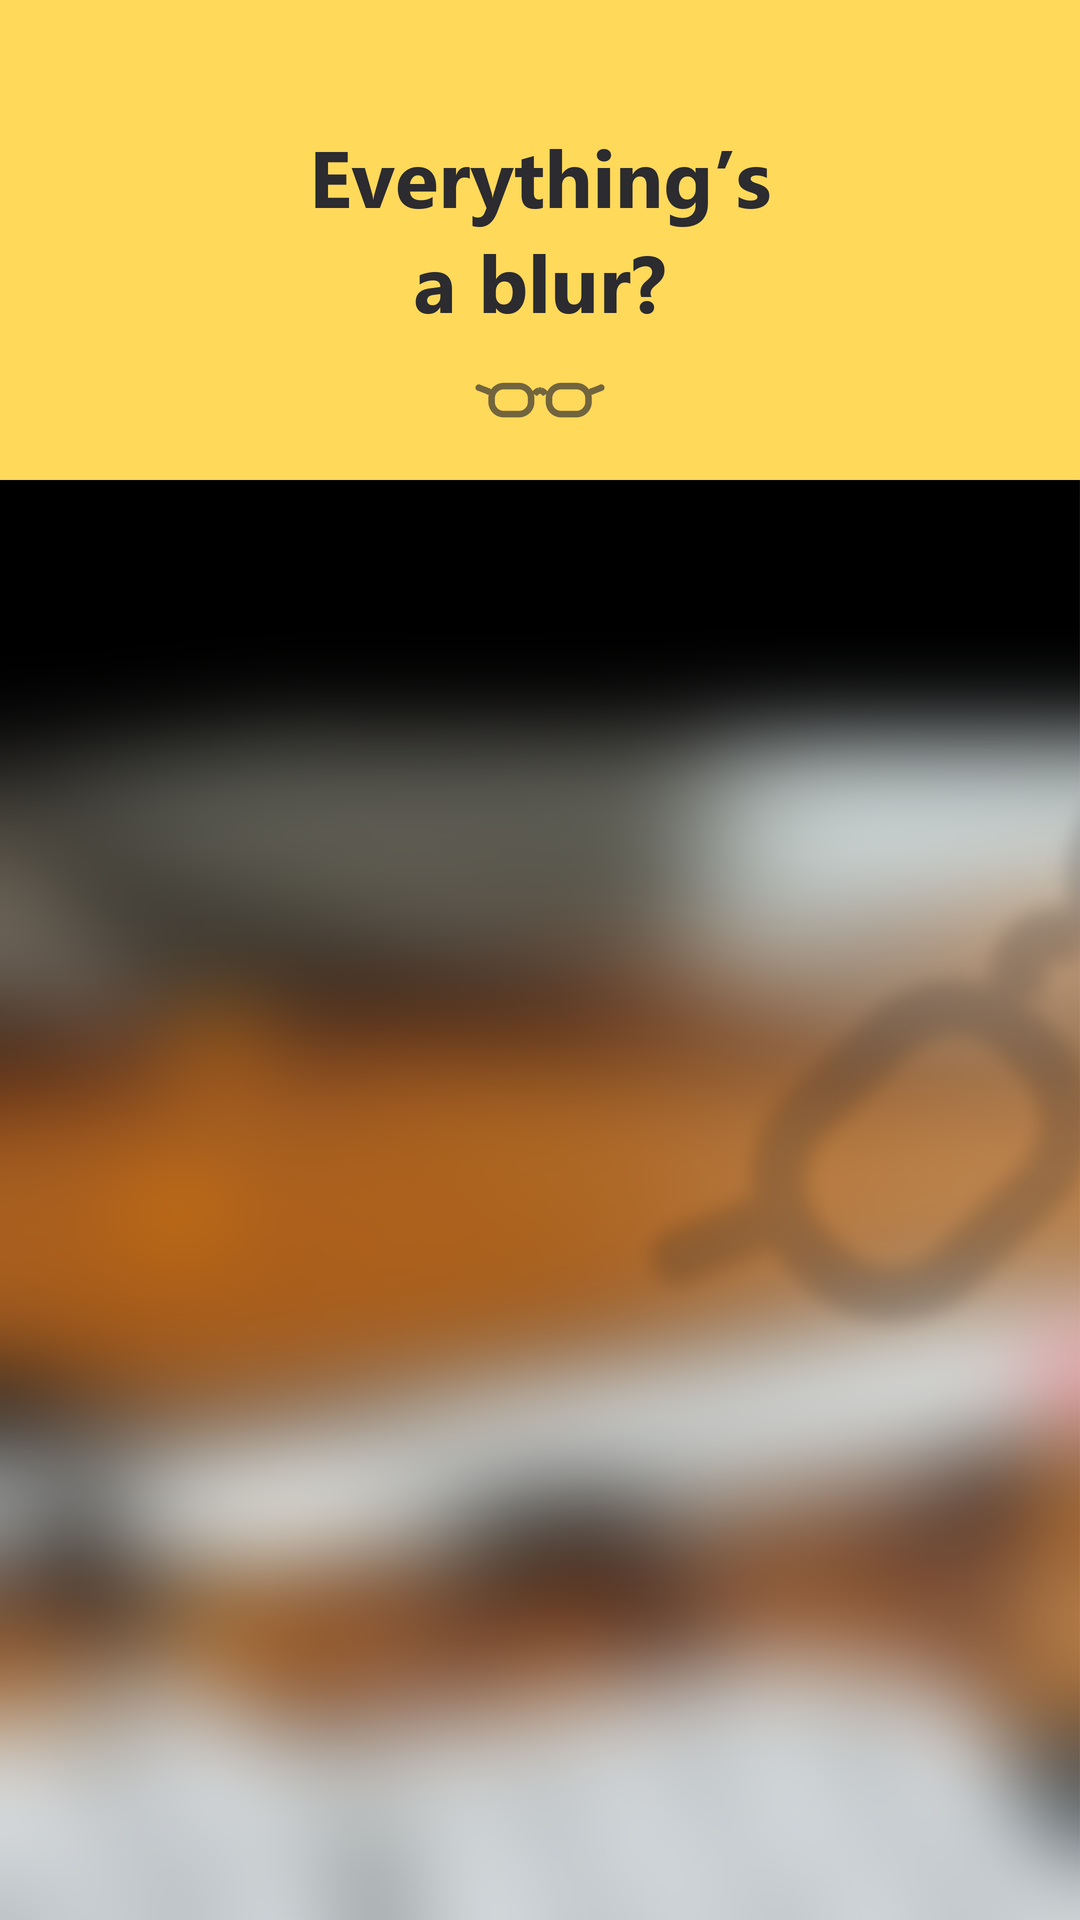
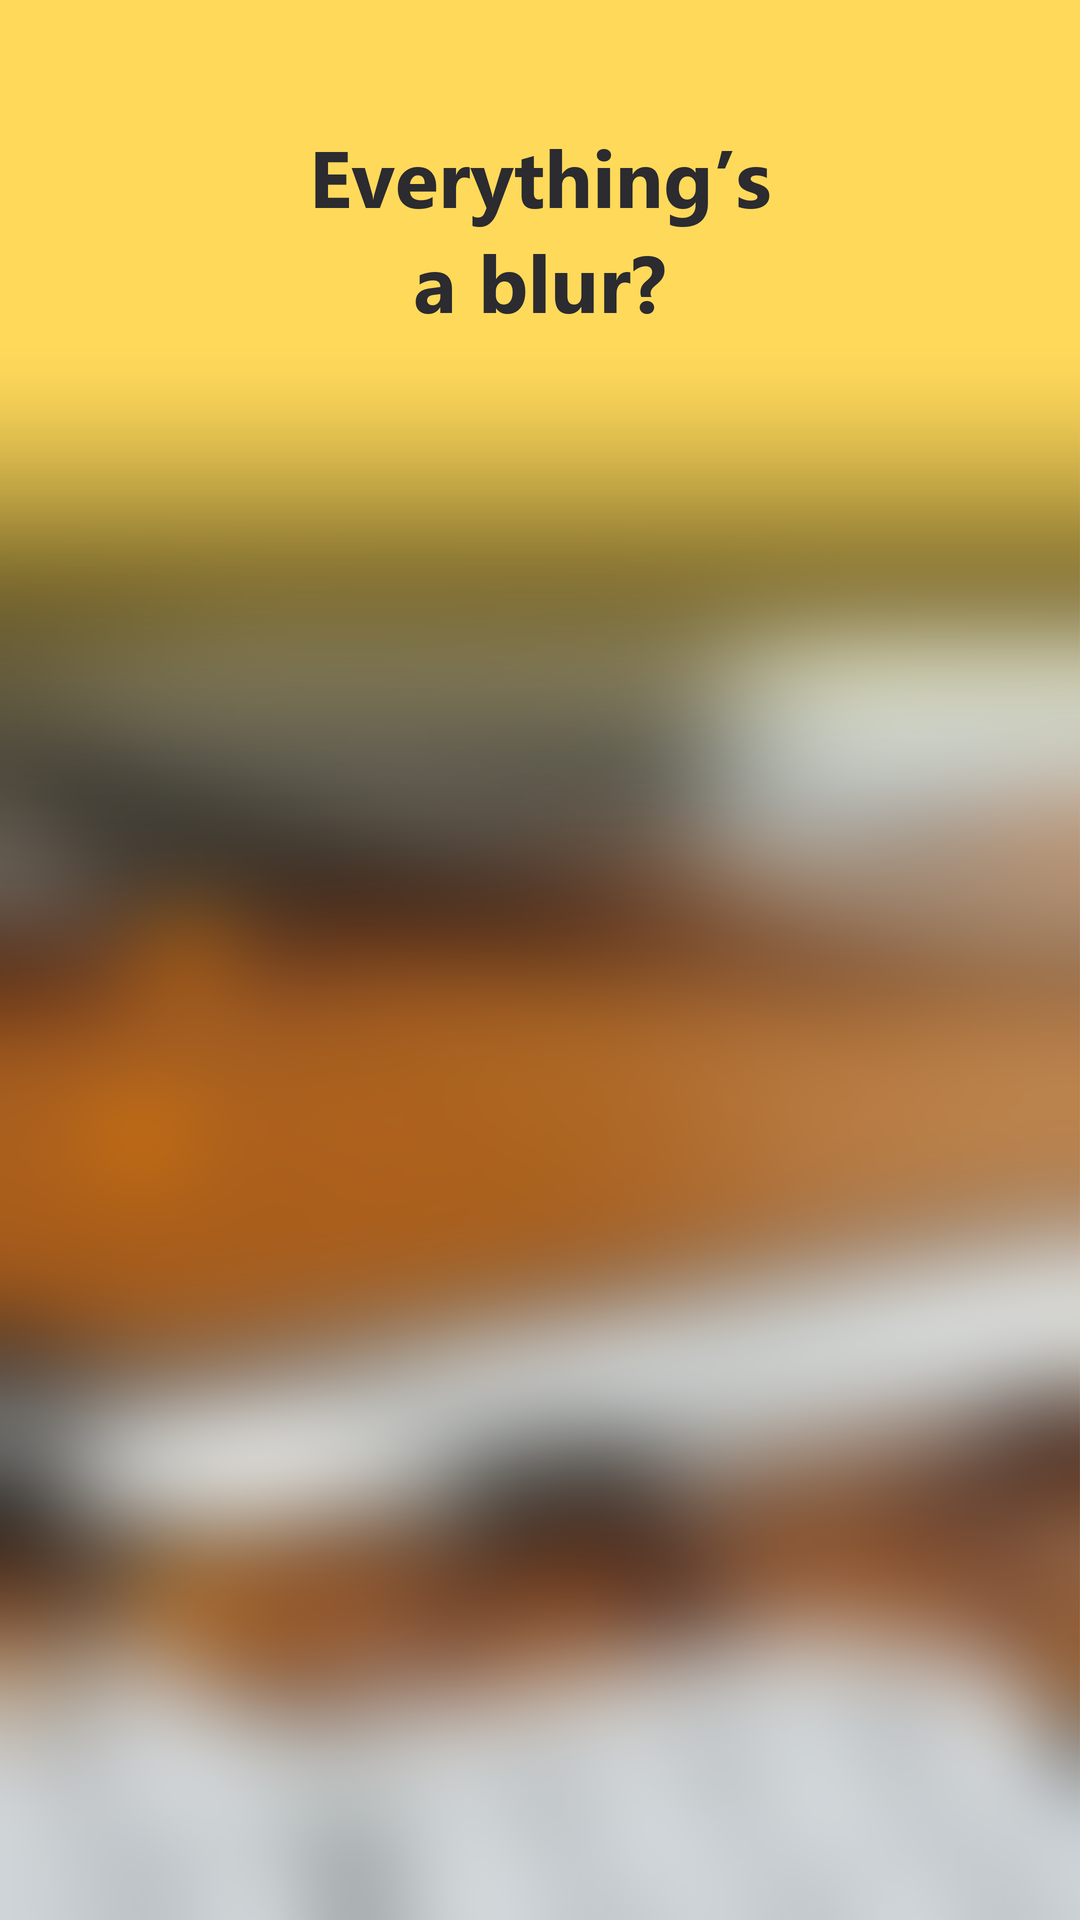
Store screenshots: no glasses on tile 1, yellow fades into the blurry room, playful glasses pattern (mixed sizes) behind tiles 2-3

diff --git a/poc/scripts/render_store_yellow.py b/poc/scripts/render_store_yellow.py
@@ -1,9 +1,9 @@
 """스토어 스크린샷 (노랑 테마) — 1080x1920 세 장.
 
-1 흐릿한 방 (안경 벗은 사람 눈으로 본 모습. 폰 없이, 위 1/4 노랑 아래 3/4 흐린 사진)
+1 흐릿한 방 (안경 벗은 사람 눈으로 본 모습. 폰도 안경도 없이. 위 노랑이 사진으로 스르륵 이어진다)
 2 찾는 화면   3 폭죽 화면
-아이콘과 같은 노랑 배경 + 먹색 글자. 제목 아래에 아이콘의 안경 하나.
-두 장의 경계마다 아주 크고 흐릿한 안경을 하나씩 걸쳐 둔다 (폰 뒤로 일부 가려진다).
+아이콘과 같은 노랑 배경 + 먹색 글자. 2·3장 제목 아래에 아이콘의 안경 하나.
+2·3장 배경에는 크고 작은 안경을 옅게 깐 패턴 (1장에는 없다).
 
     uv run python scripts/render_store_yellow.py
 """
@@ -31,7 +31,7 @@ PHONE_H = 1300
 PHONE_Y = 1140
 TEXT_Y = (175, 280)
 ORNAMENT_Y = 400
-PHOTO_TOP = 480           # 1장 사진이 시작하는 높이 (위 1/4 은 노랑)
+PHOTO_FADE = (330, 820)   # 1장: 이 높이 사이에서 노랑 → 사진으로 스르륵 바뀐다
 
 random.seed(8)
 
@@ -82,9 +82,17 @@ def main() -> None:
     PW, PH = W * N * SS, H * SS
     canvas = Image.new("RGBA", (PW, PH), YELLOW + (255,))
 
-    # 1장: 위 1/4 은 노랑(제목), 아래 3/4 을 흐린 사진으로 꽉 채운다
-    room = blurry_room(W * SS, PH - PHOTO_TOP * SS)
-    canvas.paste(room, (0, PHOTO_TOP * SS))
+    # 1장: 흐린 사진을 깔고, 위쪽은 노랑에서 사진으로 부드럽게 넘어간다
+    top = PHOTO_FADE[0] * SS
+    room = blurry_room(W * SS, PH - top).convert("RGBA")
+    fade = Image.new("L", room.size, 255)
+    fd = ImageDraw.Draw(fade)
+    span = (PHOTO_FADE[1] - PHOTO_FADE[0]) * SS
+    for y in range(span):
+        t = y / span
+        fd.line([(0, y), (room.width, y)], fill=int(255 * (t * t * (3 - 2 * t))))
+    room.putalpha(fade)
+    canvas.alpha_composite(room, (0, top))
 
     # 폰은 따로 그려 두고, 폰 자리를 경계 안경이 피하게 한다
     phones = Image.new("RGBA", (PW, PH), (0, 0, 0, 0))
@@ -93,15 +101,27 @@ def main() -> None:
             place(phones, phone(screen(name), PHONE_H * SS), (i * W + W // 2) * SS, PHONE_Y * SS, ang)
     busy = phones.split()[3].point(lambda a: 255 if a > 20 else 0).filter(ImageFilter.MaxFilter(41))
 
-    # 경계마다 아주 큰 흐릿한 안경 하나 — 두 장에 반씩 걸친다. 폰 뒤로 일부 가려진다.
-    for seam in range(1, N):
-        gw = int(random.uniform(950, 1150) * SS)
-        ang = random.uniform(25, 45) * random.choice((1, -1))
-        spr = glasses_sprite(gw, INK + (60,)).rotate(ang, resample=Image.BICUBIC, expand=True)
-        spr = spr.filter(ImageFilter.GaussianBlur(10 * SS))
-        cx = seam * W * SS
-        cy = random.randint(900, 1250) * SS
-        canvas.alpha_composite(spr, (cx - spr.width // 2, cy - spr.height // 2))
+    # 2·3장 배경 안경 패턴 — 들쭉날쭉한 격자에 크고 작은 안경. 큰 것은 살짝 흐리게.
+    # 1장(흐린 방)으로는 넘어가지 않는다. 제목 자리는 비운다.
+    cell = 300 * SS
+    x_start = W * SS
+    pattern = Image.new("RGBA", (PW, PH), (0, 0, 0, 0))
+    for row in range(PH // cell + 1):
+        for col in range((PW - x_start) // cell + 1):
+            big = random.random() < 0.35
+            gw = int((random.uniform(260, 360) if big else random.uniform(110, 170)) * SS)
+            ang = random.uniform(-30, 30)
+            spr = glasses_sprite(gw, INK + (45 if big else 60,)).rotate(ang, resample=Image.BICUBIC, expand=True)
+            if big:
+                spr = spr.filter(ImageFilter.GaussianBlur(4 * SS))
+            ox = (cell // 2) * (row % 2)                      # 줄마다 반 칸 어긋나게
+            cx = x_start + col * cell + ox + random.randint(-50, 50) * SS
+            cy = row * cell + cell // 2 + random.randint(-50, 50) * SS
+            x, y = cx - spr.width // 2, cy - spr.height // 2
+            if x < x_start + 20 * SS or cy < 470 * SS:        # 1장 쪽, 제목 자리
+                continue
+            pattern.alpha_composite(spr, (max(0, x), max(0, y)))
+    canvas.alpha_composite(pattern)
 
     canvas.alpha_composite(phones)
 
@@ -114,8 +134,8 @@ def main() -> None:
         col = INK
         d.text((cx, TEXT_Y[0] * SS), l1, font=f, fill=col, anchor="mm")
         d.text((cx, TEXT_Y[1] * SS), l2, font=f, fill=col, anchor="mm")
-        orn = orn_ink
-        canvas.alpha_composite(orn, (cx - orn.width // 2, ORNAMENT_Y * SS - orn.height // 2))
+        if name is not None:
+            canvas.alpha_composite(orn_ink, (cx - orn_ink.width // 2, ORNAMENT_Y * SS - orn_ink.height // 2))
 
     full = canvas.convert("RGB").resize((W * N, H), Image.LANCZOS)
     full.save(REL / "store-yellow-spread.png")
